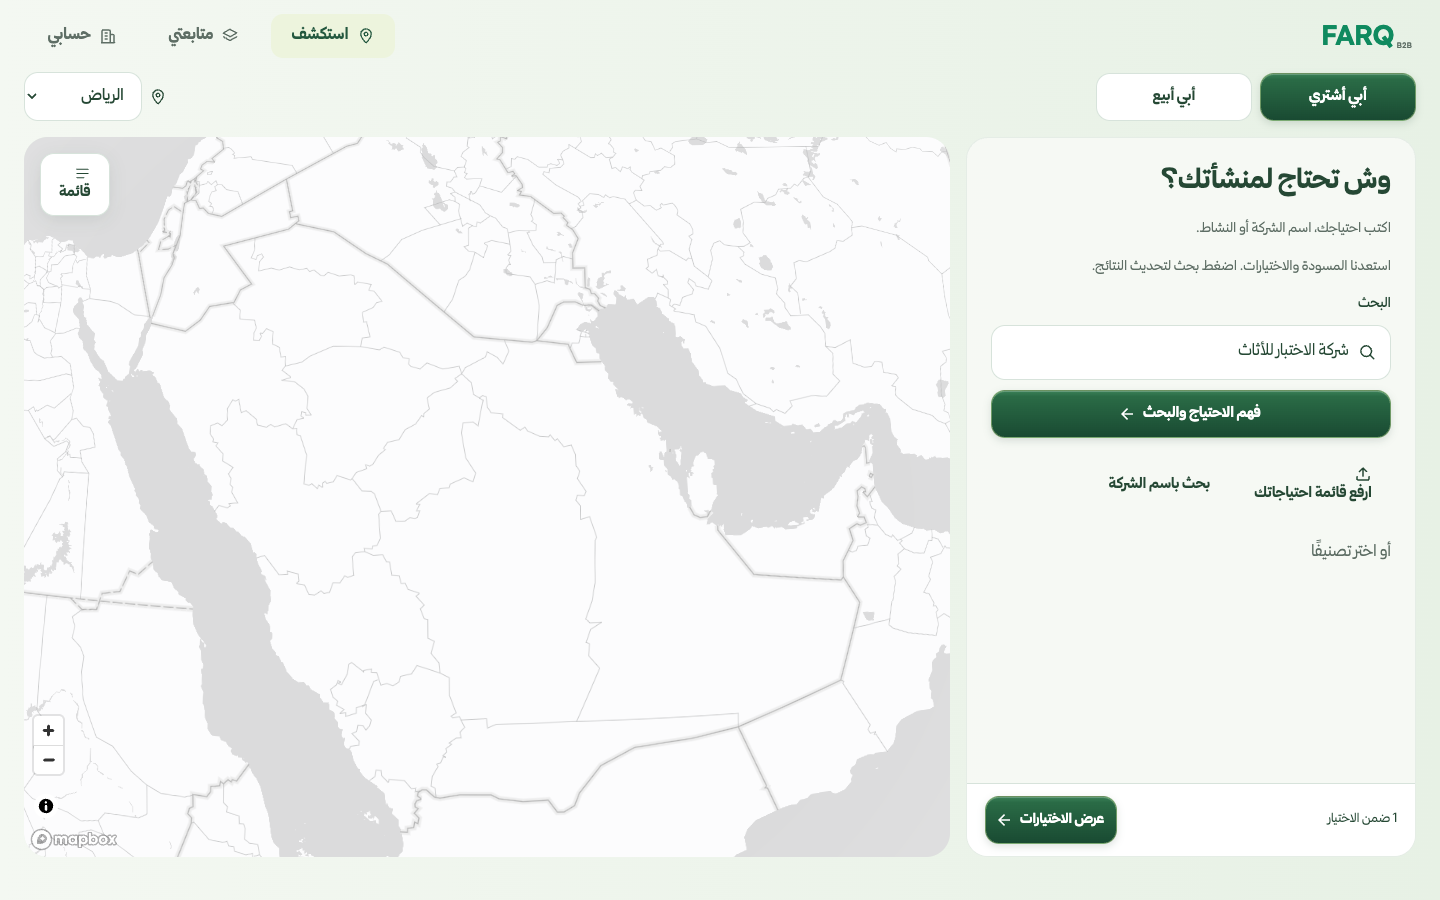
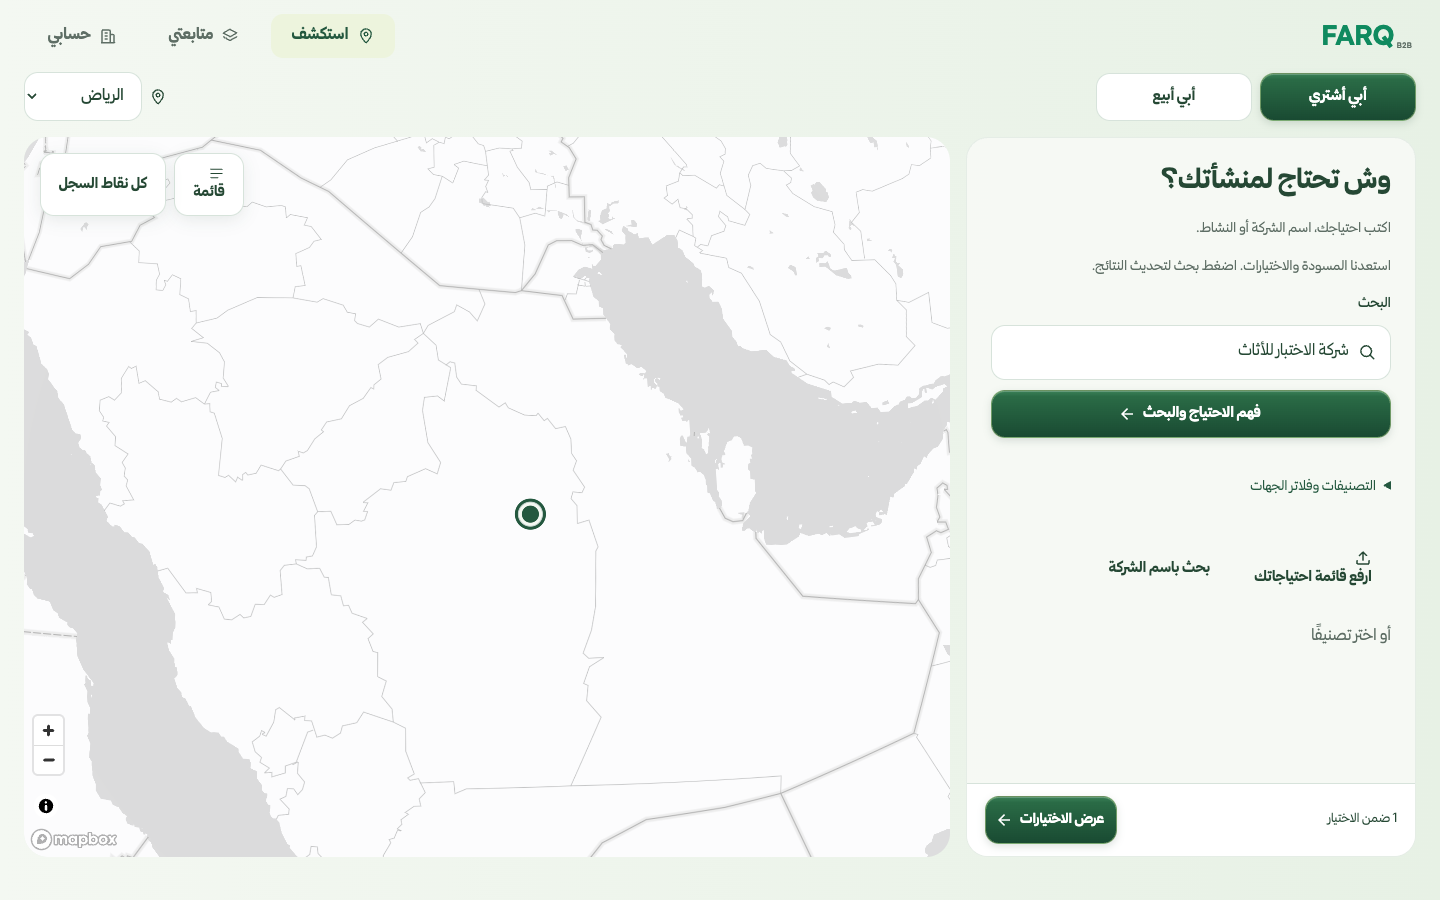
docs: record published directory tiles and production verification

diff --git a/docs/release/FARQ-B2B.md b/docs/release/FARQ-B2B.md
@@ -7,7 +7,7 @@ Public landing at /, existing authenticated login, Explore, purchase creation wi
 
 ## Evidence
 - TypeScript, token lint and production Vite build passed. Lint reports warnings; not a warning-free build.
-- 11 Playwright scenarios passed on 390px and 1440px: clinic chairs, wholesale selling, direct company name, empty recovery, landing/login and explicit purchase dispatch consent. Network mutations were mocked, never sent to real businesses.
+- 13 Playwright scenarios passed on 390px and 1440px: clinic chairs, wholesale selling, direct company name, empty recovery, landing/login and explicit purchase dispatch consent. Network mutations were mocked, never sent to real businesses.
 - Companion API: 3 focused GENERAL business request tests passed. Required correspondence verification passed backend, frontend and types with mocked providers.
 - Updated the stale SQL fixture for current supplier columns and dispatch adapter. SQL GENERAL custom-requirement and existing request-flow regression passed (10 tests). This remains local SQL evidence, not a live supplier send.
 - Screenshots: ../qa/b2b/. Screenshots are local/mock-data evidence, not production data validation.
@@ -24,7 +24,9 @@ Public landing at /, existing authenticated login, Explore, purchase creation wi
 ## Limitations
 - Sales opportunities and manual quote drafts are browser-local, not cloud shared. Sales dispatch is unavailable; UI states this explicitly. Backend returns sales_dispatch:false.
 - Account business defaults and purchase wizard drafts are browser-local per user.
-- Map area action filters currently loaded search results; the UI discloses this. It does not perform a new spatial server query.
+- Map area action now filters the entire search/catalog query on the server. Authenticated MVT XYZ tiles cover every located result or every filtered catalog point, with grid aggregation at low zoom. Coordinates missing from the directory remain list-only.
+- Match confidence is a heuristic name/activity score, not a calibrated probability of stock or purchasing intent. Institution/company type is name-derived, and registered brand locations are not independently verified branches. Business size is absent; the small-institution option is explicitly unavailable.
+- Tile query contexts expire after 30 minutes. Refresh the layer or rerun search after expiry. Tiles are private, do not embed credentials in URLs and bypass shared HTTP caches.
 - Mobile bottom sheet has explicit mini/half/full controls; no drag gesture implemented.
 - Mapbox is lazy-loaded but large; build reports a chunk-size warning.
 - No live supplier-send verification was performed. Publication does not certify real WhatsApp/email delivery.
@@ -35,8 +37,24 @@ Published to https://pricing.farq.sa on 2026-10-13. API, pricing and targeting d
 
 ## Published artifacts
 - API: `7ee24b4d-22a9-4984-9ede-7ae9b6ff3530`, source `cbc926eb2`. Previous deployment `98c67375-3c5d-4097-925b-cbc9431ef12c`.
-- Pricing: `733a2d3f-5d74-4a5f-be35-2f8cf2e09447`, source `fab8851`. Previous release `14ca5dca-9089-401a-9d49-d159bab1fa9a`.
-- Targeting: `6d2b0a09-a674-40d1-a40a-fbfaca8c7ce3`. Previous `7d58cb2d-b09f-4ef0-b248-a8c8799c0cb4`; immutable source hashes in targeting-release.json. Four supplier-role regression tests passed.
+- Pricing: `d8a36e06-ff6e-4996-a70c-75253e8893ab`, source `eb1eb3d`. Initial directory UI release `e6f468dc-1431-4d08-9c58-9d65c5cd3a87`; previous B2B release `733a2d3f-5d74-4a5f-be35-2f8cf2e09447`.
+- Targeting: `7efdedc3-5b5e-45c4-8da4-5a3760e14dd9`. Initial vector release `e5b94a6d-29a6-492c-821f-2c62b33a557b`; previous B2B service `6d2b0a09-a674-40d1-a40a-fbfaca8c7ce3`; immutable source hashes in targeting-release.json. Nine directory/tile/supplier-role regression tests passed.
 - Production chair search initially returned clinics; fixed known-family rule preservation, required seller evidence for AI-expanded purchase, removed coordinate-name artifact, and made category inference/availability limits explicit.
 - Existing API/auth/Mapbox configuration preserved. SITE_URL corrected to pricing.farq.sa. Construction UI and other service deployments untouched.
 - A tab open across bundle replacement needed reload to fetch new dynamic chunks; fresh page loading succeeded.
+
+## Directory enhancement verification
+- 9 Python tests passed over the actual read-only Parquet directory: no ten-result cap, stable nonoverlapping pages, filters and name priority before pagination, query-scoped profiles, MVT counts across XYZ boundaries, no per-tile top-N truncation.
+- 13 UI scenarios passed at 390px and 1440px, including 65 results across three pages, category/subcategory/company/literal-name filters and catalog map option. Browser tests use isolated fixture responses; live checks are recorded separately after deployment.
+- Local authenticated HTTP search and MVT requests succeeded; unauthenticated facets and tile requests returned 401.
+- Target source archive and SHA-256 manifest: targeting-vector-tiles-source.tar.gz / targeting-release.json.
+
+### Live directory/map checks
+- Porcelain query: 30 loaded of 1,750 inferred matches, 1,746 located. Name-priority option put the four businesses naming porcelain first and retained the semantic tail. This differs from the local deterministic result count because production has AI interpretation enabled.
+- Full Riyadh catalog map: 693,595 filtered directory records, 648,552 located. Map tiled point/cluster layer rendered successfully; missing coordinates explicitly counted as list-only.
+- Shopping/company/multiple registered locations: 732 results, 60 loaded successfully across two pages.
+- Individual MVT point opened its query-scoped business profile and focused map ring. No supplier communications or business requests were submitted.
+- Service replacement expired in-memory query contexts; the visible Refresh Layer action recovered successfully.
+- Direct targeting and pricing-proxy unauthenticated facets/tile paths returned 401. Desktop and mobile document widths do not overflow.
+
+- Final published screenshot: docs/qa/production/vector-tiles-desktop.png (732 filtered located records; catalog title and vector clusters visible). Temporary browser viewport restored after capture.
